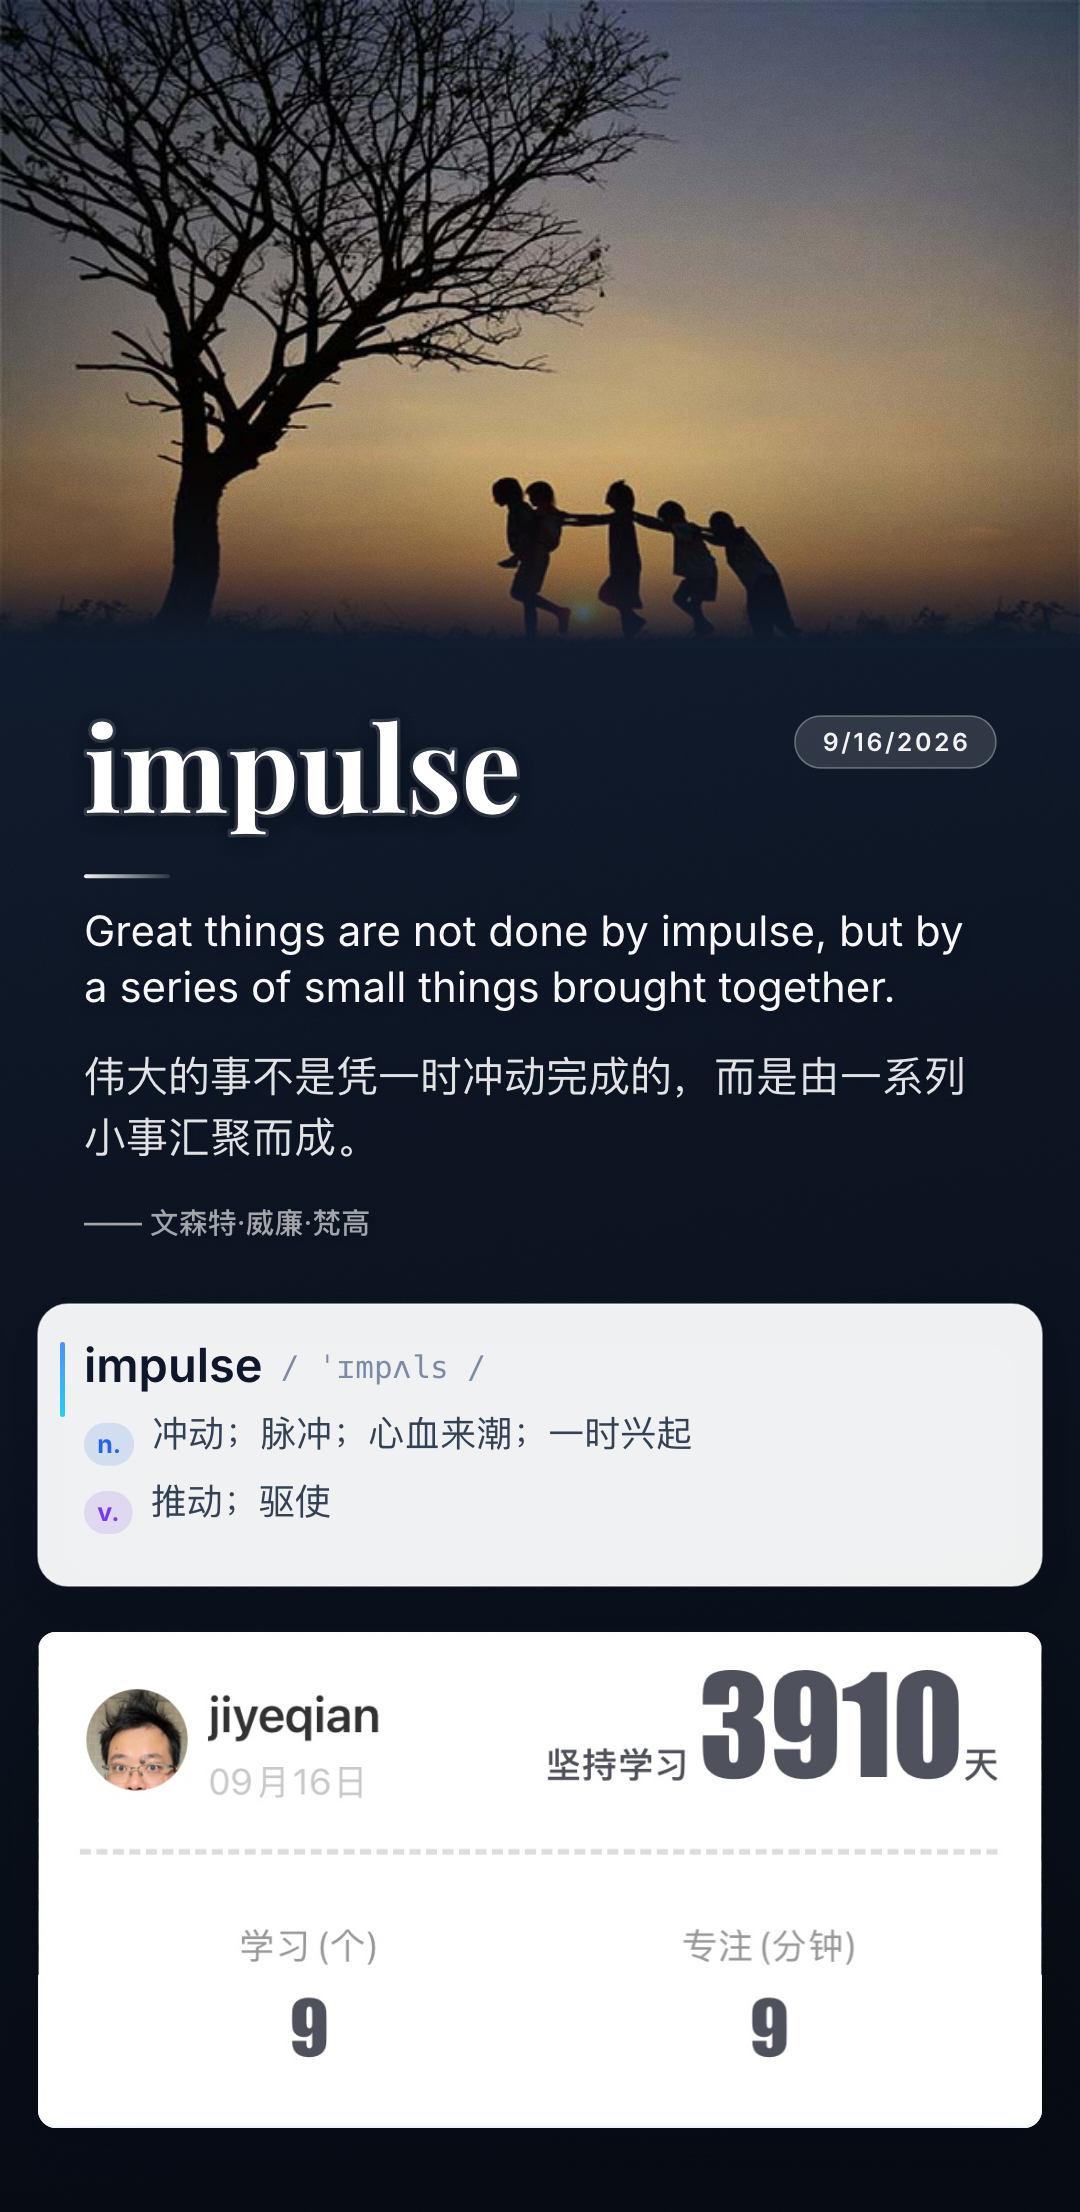
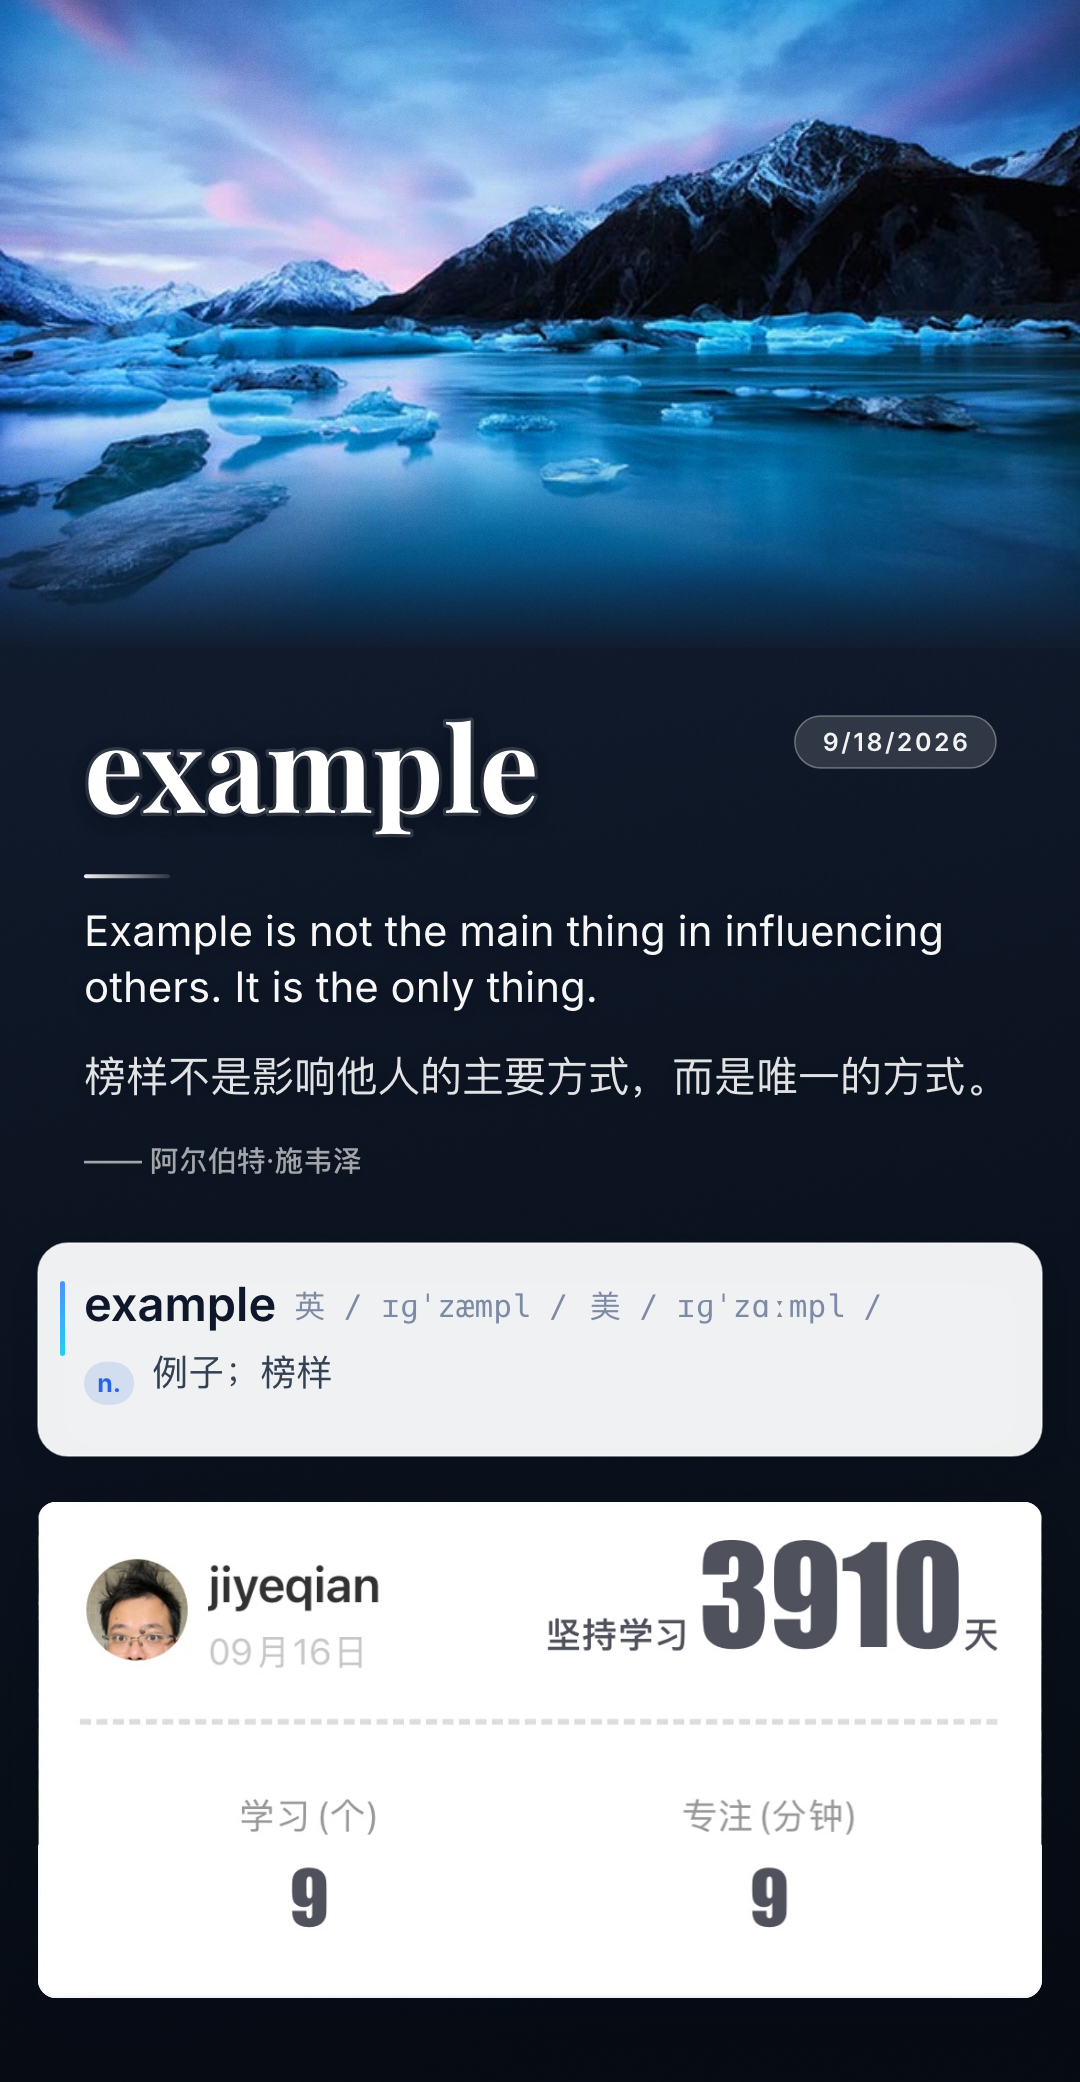
fix: 兼容上游新增的英/美双音标与不带冒号的裸标题
上游 2026-09-18 改了页面写法，导致解析错乱：单词被解析成「example 英」、
音标把「/ 美 /…/」整段吞掉；例句与常用搭配的标题不再带冒号，于是全被并进
释义，海报被撑得极长（看起来像默认开了长版海报）。

解析（server.js）
- 新增 parseWordLine()：按 (英式|美式|英|美)? /音标/ 逐段捕获，单词与音标
  彻底分离，支持「单音标」「只有英式」「英式+美式」三种写法；输出结构化
  phonetics:[{label,ph}]，保留 phonetic 兼容旧字段
- 新增 isSectionHeader()：三重判据识别分组标题 —— detail_header 标注、
  冒号结尾、「已知标题词」或「短小纯中文且前面有空行分隔」。
  detail_header 不参与长度限制，否则「本句出自：某某（原文名）」会被漏掉
- 「常用搭配」归入 usages 并记录 usagesTitle
- 关键词行兜底清掉残留的语言标签

渲染（app.js）
- phoneticList()：只有一个音标时不显示「英/美」标签（与旧版观感一致），
  英＋美并存才加标签区分
- 音标过长（长单词 + 双音标）时逐档缩小字号，保证不溢出卡片宽度
- 长版海报新增「常用搭配」：小标题 + 圆点列表，英文深色、中文灰阶分色
- 新增调试参数 ?ph=，便于测试单/双音标排版

实测：标准版画布 2082（释义恢复为 1 条）、长版 2742；单音标、带标签单音标、
超长双音标三种排版均正常，控制台无报错。

diff --git a/app/public/app.js b/app/public/app.js
@@ -34,7 +34,7 @@ const DEFAULT_RATIOS = { L: 0.0364, T: 0.5934, R: 0.9636, B: 0.8491 };
 
 const state = {
   apiData: null,
-  content: { word: '', phonetic: '', en: '', cn: '', defs: [], examples: [], source: '', date: '', dateCN: '' },
+  content: { word: '', phonetic: '', phonetics: [], en: '', cn: '', defs: [], examples: [], usages: [], usagesTitle: '', source: '', date: '', dateCN: '' },
   bgImage: null,
   template: null,
   ratios: { ...DEFAULT_RATIOS },
@@ -191,10 +191,13 @@ async function loadDaily(force) {
   state.content = {
     word: data.word || '',
     phonetic: data.phonetic || '',
+    phonetics: Array.isArray(data.phonetics) ? data.phonetics.slice() : [],
     en: data.en || '',
     cn: data.cn || '',
     defs: (data.definitions || []).slice(),
     examples: (data.examples || []).slice(),
+    usages: (data.usages || []).slice(),
+    usagesTitle: data.usagesTitle || '常用搭配',
     source: (data.source && data.source.author) || '',
     date: data.date || '',
     dateCN: data.dateCN || '',
@@ -204,6 +207,15 @@ async function loadDaily(force) {
     const v = QS.get(k);
     if (v) state.content[k] = v;
   });
+  /* 调试音标排版：?ph=ˈɪmpʌls（单音标）或 ?ph=英:ɪɡˈzæmpl|美:ɪɡˈzɑːmpl（双音标） */
+  const phRaw = QS.get('ph');
+  if (phRaw) {
+    state.content.phonetics = phRaw.split('|').filter(Boolean).map((seg) => {
+      const i = seg.indexOf(':');
+      return i > 0 ? { label: seg.slice(0, i), ph: seg.slice(i + 1) } : { label: '', ph: seg };
+    });
+    state.content.phonetic = '';
+  }
   fillForm();
   $('subtitle').textContent =
     (data.date ? data.date + ' · ' : '') + (data.word ? '关键词 ' + data.word : '今日一句');
@@ -464,7 +476,35 @@ function buildTextBlock(ctx, K) {
   };
 }
 
-/** 单词卡片：关键词 + 音标 + 释义（+ 长版海报下的例句），无底部栏 */
+/**
+ * 归一化音标，统一成 [{ label, ph, text }]。
+ * 只有一个音标时不显示「英/美」标签，保持和以前一致的观感；
+ * 英式 + 美式并存（2026-09-18 起上游会给两个）时才加标签区分。
+ */
+function phoneticList() {
+  const c = state.content;
+  const list = (c.phonetics && c.phonetics.length)
+    ? c.phonetics
+    : (c.phonetic ? [{ label: '', ph: c.phonetic }] : []);
+  const single = list.length <= 1;
+  return list
+    .filter((p) => p && p.ph)
+    .map((p) => ({
+      label: p.label || '',
+      ph: p.ph || '',
+      text: (single || !p.label ? '' : p.label + ' ') + '/ ' + (p.ph || '') + ' /',
+    }));
+}
+
+/** 把「for example 例如」拆成英文与中文两段，便于分色排版 */
+function splitUsage(t) {
+  const s = String(t == null ? '' : t).trim();
+  const m = s.match(/^([A-Za-z0-9'’\/\-\.\s()]+?)\s+([\u4e00-\u9fff].*)$/);
+  if (m) return { en: m[1].trim(), cn: m[2].trim() };
+  return { en: s, cn: '' };
+}
+
+/** 单词卡片：关键词 + 音标 + 释义（+ 长版海报下的例句与常用搭配），无底部栏 */
 function buildWordCard(ctx, K, topY) {
   const r = state.ratios;
   const x = Math.round(r.L * CW);
@@ -480,6 +520,22 @@ function buildWordCard(ctx, K, topY) {
   const defSize = 36 * K;
   const defLH = defSize * 1.62;
   const chipSize = 25 * K;
+
+  /* 关键词 + 音标：可能是「英 /…/ 美 /…/」，放不下就逐档缩小音标字号 */
+  ctx.font = T(wordSize, 600, F_SANS);
+  const wordW = ctx.measureText(state.content.word || '').width;
+  const phs = phoneticList();
+  let phDrawSize = phSize;
+  if (phs.length) {
+    for (let s = 1; s >= 0.6; s -= 0.05) {
+      const size = phSize * s;
+      ctx.font = T(size, 400, F_MONO);
+      const total = phs.reduce((acc, p) => acc + ctx.measureText(p.text).width, 0)
+        + Math.max(0, phs.length - 1) * 22;
+      phDrawSize = size;
+      if (wordW + 18 + total <= innerW) break;
+    }
+  }
 
   const defItems = [];
   for (const d of state.content.defs) {
@@ -510,16 +566,40 @@ function buildWordCard(ctx, K, topY) {
     }
   }
 
+  /* 常用搭配：同样只在「长版海报」下出现 */
+  const useItems = [];
+  const useTitle = state.content.usagesTitle || '常用搭配';
+  const useSize = 28 * K;
+  const useLH = useSize * 1.72;
+  if (state.opts.longPoster && state.content.usages.length) {
+    for (const t of state.content.usages) {
+      const { en, cn } = splitUsage(t);
+      ctx.font = T(useSize, 400, F_SANS);
+      const enW = ctx.measureText(en).width;
+      const cnW = cn ? ctx.measureText(cn).width : 0;
+      const gap = cn ? 18 : 0;
+      if (enW + gap + cnW <= innerW - 30) {
+        useItems.push({ sameLine: true, en, cn, enW, cnW, gap, h: useLH });
+      } else {
+        const lines = wrapText(ctx, t, innerW - 30);
+        useItems.push({ sameLine: false, lines, h: lines.length * useLH });
+      }
+    }
+  }
+  const useTitleH = useItems.length ? useSize * 2.1 : 0;
+
   let contentH = row1H + 16;
   for (const it of defItems) contentH += it.h + 10;
   if (exItems.length) contentH += 12 + exItems.reduce((s, e) => s + e.h + 16, 0);
+  if (useItems.length) contentH += 12 + useTitleH + useItems.reduce((s, e) => s + e.h + 8, 0);
 
   return {
     x, y: Math.round(topY), w, h: Math.round(padY * 2 + contentH),
     padX, padY, innerW,
-    wordSize, phSize, row1H,
+    wordSize, phSize, phDrawSize, row1H, wordW,
     defItems, defLH, chipSize, defSize,
     exItems,
+    useItems, useTitle, useSize, useLH, useTitleH,
   };
 }
 
@@ -834,10 +914,16 @@ function drawWordCard(ctx, L) {
   ctx.fillText(word, x0, baseline1);
   const ww = ctx.measureText(word).width;
 
-  if (state.content.phonetic) {
-    ctx.font = T(P.phSize, 400, F_MONO);
+  const phs = phoneticList();
+  if (phs.length) {
+    ctx.font = T(P.phDrawSize || P.phSize, 400, F_MONO);
     ctx.fillStyle = '#7c8aa5';
-    ctx.fillText('/ ' + state.content.phonetic + ' /', x0 + ww + 18, baseline1 - P.wordSize * 0.09);
+    const phY = baseline1 - P.wordSize * 0.09;
+    let px = x0 + ww + 18;
+    for (const p of phs) {
+      ctx.fillText(p.text, px, phY);
+      px += ctx.measureText(p.text).width + 22;
+    }
   }
   ctx.restore();
   y += P.row1H + 16;
@@ -893,6 +979,43 @@ function drawWordCard(ctx, L) {
       ex.cnLines.forEach((ln, i) => ctx.fillText(ln, x0 + 24, yy + i * ex.cnSize * 1.55 + ex.cnSize * 0.86));
       ctx.restore();
       y += ex.h + 16;
+    }
+  }
+
+  /* 常用搭配（长版） */
+  if (P.useItems && P.useItems.length) {
+    y += 10;
+    ctx.save();
+    ctx.font = T(P.useSize * 0.92, 600, F_SANS);
+    ctx.fillStyle = '#64748b';
+    ctx.fillText(P.useTitle, x0, y + P.useSize * 0.92 * 0.86);
+    ctx.restore();
+    y += P.useTitleH;
+
+    for (const it of P.useItems) {
+      ctx.save();
+      ctx.beginPath();
+      ctx.arc(x0 + 10, y + P.useSize * 0.42, 3, 0, Math.PI * 2);
+      ctx.fillStyle = '#c3ccd9';
+      ctx.fill();
+      ctx.restore();
+
+      ctx.save();
+      ctx.font = T(P.useSize, 400, F_SANS);
+      if (it.sameLine) {
+        ctx.fillStyle = '#334155';
+        ctx.fillText(it.en, x0 + 28, y + P.useSize * 0.86);
+        if (it.cn) {
+          ctx.fillStyle = '#8b98ad';
+          ctx.fillText(it.cn, x0 + 28 + it.enW + it.gap, y + P.useSize * 0.86);
+        }
+      } else {
+        ctx.fillStyle = '#475569';
+        it.lines.forEach((ln, i) =>
+          ctx.fillText(ln, x0 + 28, y + i * P.useLH + P.useSize * 0.86));
+      }
+      ctx.restore();
+      y += it.h + 8;
     }
   }
 }

diff --git a/app/server.js b/app/server.js
@@ -129,6 +129,53 @@ function pick(re, html, idx = 1) {
   return m[idx] === undefined ? m[0] || '' : m[idx];
 }
 
+/**
+ * 解析「关键词行」，兼容上游的几种写法：
+ *   impulse  /ˈɪmpʌls/                      单个音标（无语言标签）
+ *   example  英 /ɪɡˈzæmpl/                  只有英式
+ *   example  英 /ɪɡˈzæmpl/  美 /ɪɡˈzɑːmpl/  英式 + 美式（2026-09-18 起出现）
+ * 返回 { word, phonetics: [{ label, ph }] }
+ */
+function parseWordLine(raw) {
+  const s = String(raw == null ? '' : raw).replace(/\s+/g, ' ').trim();
+  const marks = [];
+  const re = /(?:(英式|美式|英|美)\s*)?\/([^/]{1,80}?)\//g;
+  let m;
+  while ((m = re.exec(s))) {
+    const ph = m[2].trim();
+    if (ph) {
+      marks.push({ label: m[1] || '', ph, start: m.index, end: m.index + m[0].length });
+    }
+  }
+  let word = s;
+  if (marks.length) {
+    word = (s.slice(0, marks[0].start) + ' ' + s.slice(marks[marks.length - 1].end)).trim();
+  }
+  /* 兜底清掉残留在单词里的语言标签（如「example 英」） */
+  word = word.replace(/[\s·、,，]*(英式|美式|英|美)$/, '').trim();
+  return { word, phonetics: marks.map(({ label, ph }) => ({ label, ph })) };
+}
+
+/** 上游已知的分组小标题词表 */
+const HEADER_WORDS = /^(本句出自|出自|来源|解析|词汇|单词|释义|词义|例句|示例|例|常见用法|常用用法|常见搭配|常用搭配|常用短语|搭配|用法|短语|词组|句式|表达|扩展|同义词|近义词|反义词|词根|词源|记忆|联想|辨析|注意)/;
+
+/**
+ * 判断某一行是不是分组小标题。
+ * 「解析:」「例句：」带冒号；但 2026-09-18 起「例句」「常用搭配」是裸词无冒号，
+ * 所以再补两条判据：已知标题词、以及「短小纯中文 + 前面有空行分隔」。
+ */
+function isSectionHeader(text, isDetailHeader, blankBefore) {
+  const s = String(text == null ? '' : text).trim();
+  if (!s) return false;
+  /* detail_header 是页面显式标注的标题，可能带长内容（如「本句出自：某某（原文名）」），不受长度限制 */
+  if (isDetailHeader) return true;
+  if (s.length > 14) return false;
+  if (/[:：]\s*$/.test(s)) return true;
+  if (HEADER_WORDS.test(s)) return true;
+  if (blankBefore && /^[\u4e00-\u9fff]{2,6}$/.test(s)) return true;
+  return false;
+}
+
 /* ------------------------------------------------------------------ */
 /* 解析「每日一句」页面                                                 */
 /* ------------------------------------------------------------------ */
@@ -181,14 +228,19 @@ function parseDaily(html) {
 
   const sections = [];
   let cur = null;
+  let blankBefore = false; // 上一项是否空行（上游用空行把小标题与正文分开）
   for (const it of items) {
-    if (!it.text) continue;
-    if (JUNK.test(it.text)) {
-      notice = (notice ? notice + ' ' : '') + it.text;
+    if (!it.text) {
+      blankBefore = true;
       continue;
     }
-    // detail_header 显式标题；「例句：」「常见用法：」这类短小的“冒号结尾”行也算标题
-    const isHeader = it.header || /^[^\s，。；！？、]{1,10}[:：]$/.test(it.text);
+    if (JUNK.test(it.text)) {
+      notice = (notice ? notice + ' ' : '') + it.text;
+      blankBefore = false;
+      continue;
+    }
+    const isHeader = isSectionHeader(it.text, it.header, blankBefore);
+    blankBefore = false;
     if (isHeader) {
       cur = { label: it.text.replace(/[:：]\s*$/, '').trim(), lines: [] };
       sections.push(cur);
@@ -203,6 +255,10 @@ function parseDaily(html) {
   out.definitions = [];
   out.examples = [];
   out.usages = [];
+  out.usagesTitle = '';
+  out.word = '';
+  out.phonetic = '';
+  out.phonetics = [];
   out.notice = notice;
   out.source = { title: '', author: '', desc: '' };
 
@@ -215,17 +271,13 @@ function parseDaily(html) {
       const am = tail.match(/^([^（(]+)/);
       out.source.author = (am ? am[1] : tail).trim();
       out.source.desc = lines.join(' ').trim();
-    } else if (/^解析|^词汇|^单词/.test(label)) {
+    } else if (/^解析|^词汇|^单词|^释义|^词义/.test(label)) {
       if (lines.length) {
-        const wl = lines.shift();
-        const m = wl.match(/^(.+?)\s*\/\s*(.+?)\s*\/\s*$/);
-        if (m) {
-          out.word = m[1].trim();
-          out.phonetic = m[2].trim();
-        } else {
-          out.word = wl.replace(/\/.*$/, '').trim();
-          out.phonetic = '';
-        }
+        const parsed = parseWordLine(lines.shift());
+        out.word = parsed.word;
+        out.phonetics = parsed.phonetics;
+        /* 兼容字段：只有一个音标时给字符串，双音标交给 phonetics */
+        out.phonetic = parsed.phonetics.length === 1 ? parsed.phonetics[0].ph : '';
         for (const l of lines) {
           const pm = l.match(/^([a-zA-Z]{1,6}\.)\s*(.+)$/);
           if (pm) out.definitions.push({ pos: pm[1].toLowerCase(), text: pm[2].trim() });
@@ -247,8 +299,9 @@ function parseDaily(html) {
         }
       }
       if (pendingEn) out.examples.push({ en: pendingEn, cn: '' });
-    } else if (/常见用法|用法|搭配/.test(label)) {
+    } else if (/用法|搭配|短语|词组|句式|表达/.test(label)) {
       out.usages = lines.slice();
+      out.usagesTitle = label || '常用搭配';
     } else if (!out.source.desc && lines.length) {
       out.source.title = out.source.title || sec.label;
       out.source.desc = lines.join(' ').trim();

diff --git a/app/README.md b/app/README.md
@@ -73,8 +73,8 @@ PORT=3000 node server.js  # 自定义端口
 3. **文字块** —— 日期胶囊、关键词（Playfair Display 衬线大标题）、装饰分隔线、
    英文句、中文句，**出处紧跟在句子下面**
 4. **单词卡片** —— 毛玻璃质感（`ctx.filter = blur()` 自绘实现）：左侧渐变强调竖条、
-   关键词 + 等宽字体音标、词性色块（n./v./adj.…）+ 释义，开启「长版海报」后追加例句引用块。
-   不含日期 / 来源底部栏
+   关键词 + 等宽字体音标、词性色块（n./v./adj.…）+ 释义，开启「长版海报」后追加
+   例句引用块与「常用搭配」列表。不含日期 / 来源底部栏
 5. **个人信息卡片** —— 从模板图里**自动识别**白卡位置（近纯白二值化 + 连通域，
    取不接触画布边缘的最大白块），按圆角矩形抠出来重新贴上并重绘投影，固定在版面最下方
 
@@ -118,12 +118,30 @@ app/
     └── assets/template.jpg    # 默认模板（你的乐词打卡图）
 ```
 
+## 上游格式兼容
+
+欧路词典的页面结构会不定期变动。解析器对已知的几种变化都做了兼容：
+
+| 上游变化 | 应对 |
+| --- | --- |
+| 音标从「单个 `/…/`」变成「英 `/…/` 美 `/…/`」 | `parseWordLine()` 按 `(英式｜美式｜英｜美)? /音标/` 逐段捕获，把单词与音标彻底分离；渲染时只有一个音标不显示语言标签（与旧版一致），英＋美并存才加标签区分 |
+| 分组小标题从「例句：」变成裸词「例句」「常用搭配」 | `isSectionHeader()` 三重判据：页面 `detail_header` 标注 → 冒号结尾 → 已知标题词（`HEADER_WORDS`）或「短小纯中文 + 前面有空行分隔」 |
+| 新增「常用搭配」分组 | 归入 `usages` + `usagesTitle`，在长版海报里以小标题 + 圆点列表呈现，英文深色、中文灰阶分色 |
+| 例句的 class 在 `exp` / `eg` 之间摇摆 | 解析只按 `<br>` 切分取文本，不依赖 class |
+
+音标过长时（如 `extraordinarily` 配双音标），单词卡片的音标字号会从 31px 逐档缩到最低约
+18.6px，保证不溢出卡片宽度。
+
+> 若上游又推出**词表之外的新裸标题**，那一行会被并进上一段。此时把它加进 `server.js` 的
+> `HEADER_WORDS` 即可。
+
 ## 调试参数
 
 - `?raw=1` —— 只显示海报本身，便于导出/截图
 - `?bg=natural|cover` —— 指定背景模式
 - `?long=1` —— 长版海报（旧参数 `?ex=1` 同样生效）
 - `?word=&en=&cn=&source=` —— 覆盖文案（方便排版测试）
+- `?ph=ˈɪmpʌls`｜`?ph=英:ɪɡˈzæmpl|美:ɪɡˈzɑːmpl` —— 覆盖音标（方便测试单/双音标排版）
 
 ## 说明
 

diff --git a/README.md b/README.md
@@ -31,7 +31,7 @@
 
 **抓取**
 
-- 中英文句子、关键词、音标、词性释义、例句、常见用法、出处
+- 中英文句子、关键词、音标（英式 / 美式双音标）、词性释义、例句、常用搭配、出处
 - 网页「每日一句」卡片左上角的配图（`static.esdict.cn/MediaPool/daymonthimg/…`，每天轮换）
 - 真人发音地址（正常 / 慢速，可试听）
 
@@ -84,6 +84,7 @@ PORT=3000 node server.js  # 自定义端口
 - `?bg=natural|cover` —— 指定背景模式
 - `?long=1` —— 长版海报（旧参数 `?ex=1` 同样生效）
 - `?word=&en=&cn=&source=` —— 覆盖文案，便于排版测试
+- `?ph=ˈɪmpʌls`（单音标）或 `?ph=英:ɪɡˈzæmpl|美:ɪɡˈzɑːmpl`（双音标）—— 覆盖音标，便于测试排版
 
 ---
 
